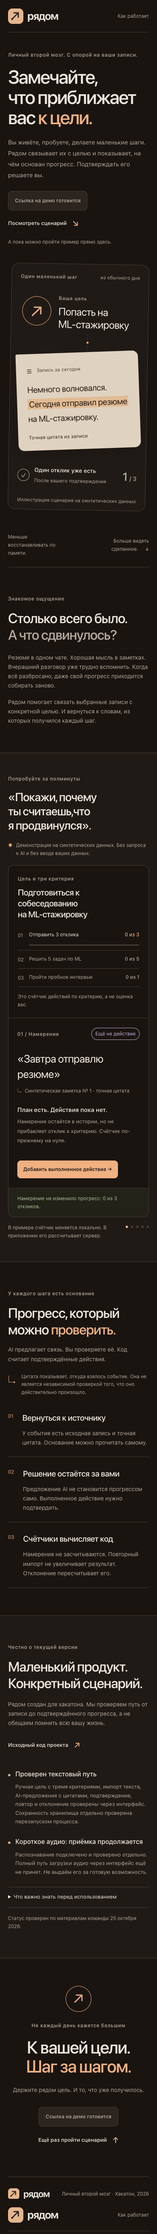
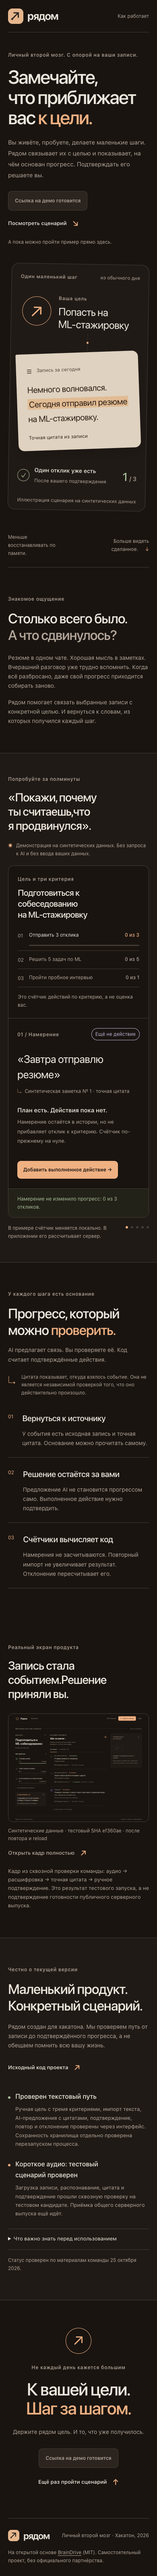
Reflect verified audio flow and show authentic product screen

diff --git a/landing/index.html b/landing/index.html
@@ -18,7 +18,10 @@
       property="og:description"
       content="Запись. Точная цитата. Ваше подтверждение. Замечайте, что приближает вас к цели."
     />
-    <meta property="og:image" content="http://77.239.111.64/assets/og-image.png" />
+    <meta
+      property="og:image"
+      content="http://77.239.111.64/assets/og-image.png"
+    />
     <meta property="og:image:width" content="1200" />
     <meta property="og:image:height" content="630" />
     <meta
@@ -321,6 +324,56 @@
         </ol>
       </section>
 
+      <section
+        class="product-section wrap section"
+        aria-labelledby="product-title"
+      >
+        <div class="section-heading">
+          <div>
+            <p class="eyebrow">Реальный экран продукта</p>
+            <h2 id="product-title">
+              Запись стала событием.<br />Решение приняли вы.
+            </h2>
+          </div>
+          <p class="section-aside">
+            Тестовый кандидат · 25 октября 2026<br />Настоящие распознавание и
+            модель
+          </p>
+        </div>
+        <figure class="product-figure">
+          <a
+            href="assets/product-audio-verified.png"
+            target="_blank"
+            rel="noopener noreferrer"
+            aria-label="Открыть полный кадр проверенного тестового кандидата"
+            ><img
+              src="assets/product-audio-verified.png"
+              width="1440"
+              height="1100"
+              loading="lazy"
+              decoding="async"
+              alt="Реальный интерфейс Рядом после аудиопроверки: резюме подтверждено, критерий 1 из 1; интервью ещё на проверке, намерение повторить темы не засчитано."
+          /></a>
+          <figcaption>
+            <span
+              >Синтетические данные · тестовый SHA ef360ae · после повтора и
+              reload</span
+            ><a
+              class="text-link"
+              href="assets/product-audio-verified.png"
+              target="_blank"
+              rel="noopener noreferrer"
+              >Открыть кадр полностью <span aria-hidden="true">↗</span></a
+            >
+          </figcaption>
+        </figure>
+        <p class="product-caption">
+          Кадр из сквозной проверки команды: аудио → расшифровка → точная цитата
+          → ручное подтверждение. Это результат тестового запуска, а не
+          подтверждение готовности публичного серверного выпуска.
+        </p>
+      </section>
+
       <section id="mvp" class="mvp-section section" aria-labelledby="mvp-title">
         <div class="wrap mvp-grid">
           <div>
@@ -354,11 +407,11 @@
             <div class="release-row">
               <span class="status-dot apricot" aria-hidden="true"></span>
               <div>
-                <h3>Короткое аудио: приёмка продолжается</h3>
+                <h3>Короткое аудио: тестовый сценарий проверен</h3>
                 <p>
-                  Распознавание подключено и проверено отдельно. Полный путь
-                  загрузки аудио через интерфейс ещё не принят. Не выдаём его за
-                  готовую возможность.
+                  Загрузка записи, распознавание, цитата и подтверждение прошли
+                  сквозную проверку на тестовом кандидате. Приёмка общего
+                  серверного выпуска ещё идёт.
                 </p>
               </div>
             </div>
@@ -376,8 +429,9 @@
                 </p>
                 <p>
                   Постоянного прослушивания, автоматического чтения почты и
-                  мессенджеров нет. Публичные кадры работающего продукта пока не
-                  переданы; пример выше является иллюстрацией.
+                  мессенджеров нет. Интерактивный пример выше является
+                  иллюстрацией; кадр продукта снят с настоящего тестового
+                  кандидата на синтетических данных.
                 </p>
               </div>
             </details>

diff --git a/landing/styles.css b/landing/styles.css
@@ -809,6 +809,43 @@ summary:hover {
   text-decoration: underline;
   text-underline-offset: 3px;
 }
+.product-section {
+  padding-top: 0;
+}
+.product-figure {
+  margin-top: 32px;
+}
+.product-figure > a {
+  display: block;
+  border: 1px solid var(--line);
+  border-radius: 12px;
+  overflow: hidden;
+}
+.product-figure img {
+  width: 100%;
+  height: auto;
+}
+.product-figure figcaption {
+  display: flex;
+  justify-content: space-between;
+  align-items: center;
+  gap: 16px;
+  padding-top: 12px;
+  text-align: left;
+}
+.product-caption {
+  color: var(--muted);
+  font-size: 13px;
+  max-width: 78ch;
+  margin-top: 12px;
+}
+@media (max-width: 760px) {
+  .product-figure figcaption {
+    align-items: flex-start;
+    flex-direction: column;
+    gap: 4px;
+  }
+}
 @media (min-width: 1600px) {
   .hero {
     padding-top: 100px;

diff --git a/docs/landing/FACTS.md b/docs/landing/FACTS.md
@@ -11,20 +11,22 @@
 | «Вы решаете, что засчитать в прогресс» | [Расчёт прогресса](../../app/builds/typescript/features/goals/progress.ts), [приёмка A](../release/ACCEPTANCE.md): считаются подтверждённые выполненные действия. Намерения не увеличивают счётчик; повтор того же источника не даёт вторую единицу, отклонение пересчитывает результат. Похожий смысл разных текстов не равен гарантированной дедупликации. |
 | «Видно, что уже сделано по каждому критерию» | Серверные числа по критериям, без общего процента жизненного успеха. Следующий шаг в v1 — правило по первому незавершённому критерию, не модельный коучинг: [progress.ts](../../app/builds/typescript/features/goals/progress.ts). |
 
-## Аудио: реализация и приёмка различаются
+## Аудио: обновление по приёмке B, 15:07 МСК
 
-В этом SHA уже есть настоящий [STT-адаптер](../../app/builds/typescript/features/context/stt.ts) и отдельный [faster-whisper сервис](../../services/stt/README.md). Сохранены [реальная расшифровка синтетического аудио](../demo/sources/demo-audio-transcript.json) и [метрики одного запуска](../demo/sources/audio-metrics.json): запись 50,63 с обработана за 15,64 с. Это единичный замер, не SLA; в расшифровке есть ошибки. Таймкоды допустимы только из фактических segments. MVP показывает расшифровку, аудиоплеер не заявлен.
+Финальная сверка материалов владельца обнаружила более новый handoff B: коммит `7427469091fa1d562661cf245cac414050ff42e2` и последующее уточнение `f4f92b3f36f11cb21aa6cda9b20252342c2010f0`. Исходный отчёт команды `docs/evaluation/common-candidate-artifacts/results.json` проверен в общем checkout без его изменения. Отфильтрованный итог и происхождение кадра сохранены в [audio-source-summary.json](evidence/audio-source-summary.json).
 
-Полный путь «аудио через UI → STT → модель → цитата → подтверждение → прогресс» в [журнале приёмки](../release/ACCEPTANCE.md) остаётся **NOT_RUN**. Наличие [browser runner](../evaluation/browser-audio-README.md) не означает PASS. Старые README и передачи команды со словами «STT ещё не реализован» отстают от исходников; их нельзя использовать как текущее описание реализации. Безопасная публичная формулировка: **«Короткое аудио — в проверке»**. Не писать «аудио MVP принято» или «полный MVP готов» до приёмки одного общего SHA.
+На **ef360ae** 25 октября **14:38:07–14:38:59 МСК** выполнены **7 PASS, 0 FAIL**: обычные signup/logout/login, цель с нулевым прогрессом, синтетическое аудио через UI → настоящий STT → настоящая модель → точные цитаты, ручное подтверждение → серверный прогресс, повтор audio bytes без роста и reload. Это Windows браузер/gateway и серверный STT через private loopback. Restart, backup/restore, mobile и production packaging этим прогоном не проверены. Точность распознавания не гарантирована: в транскрипте есть ошибки слов.
 
-## Изображения, видео и демонстрация
+Публичная формулировка: **«Короткое аудио: тестовый сценарий проверен. Приёмка общего серверного выпуска ещё идёт»**. Не называть общий публичный MVP принятым по одному этому прогону. Первая версия лендинга корректно опиралась на ранний журнал A; перед завершением текст обновлён по новому прямому доказательству B. История не подменяет актуальный статус.
 
-- В проверенном срезе нет коммитнутого скриншота рабочего экрана «Рядом». [BrainDrive PNG](../../app/docs/images/braindrive-screenshot.png) показывает upstream-продукт и не подходит как скриншот нашего интерфейса. В [handoff C](../handoffs/agent-c.md) локальные скриншоты упомянуты, но не входят в Git. Для лендинга нужен новый проверенный снимок синтетического экрана; иллюстрацию интерфейса подписывать как иллюстрацию.
-- [Development preview](../design/GOALS_BRIEF.md) — синтетический макет без вызова модели, недоступный в production. Он годится для изображения композиции с явной подписью «Демонстрационные данные», но не доказывает live-проход.
-- [Четыре HTML-слайда](../demo/defense/README.md) подготовлены. [Резервное видео и две человеческие репетиции](../demo/REHEARSAL.md) отмечены **NOT_RUN**; файла готового продуктового видео в срезе нет. Не добавлять кнопку воспроизведения без реального файла.
+## Реальный кадр и материалы
+
+Из того же проверенного отчёта взят `03-duplicate-and-reload.png`. Он визуально просмотрен: реальный интерфейс «Рядом», синтетическая цель, подтверждённое резюме 1/1, второе действие на проверке и намерение без роста. Нет URL-бара, токенов, приватных контактов или пользовательских записей. В лендинг файл скопирован **без редактирования пикселей** как `assets/product-audio-verified.png`; подпись прямо называет тестовый SHA, отдельную синтетическую цель и границы результата. Это не изображение upstream BrainDrive и не development preview.
+
+Общий `PRODUCT.md` и дизайн-принципы сохранены. Первый интерактивный пример остаётся отдельной детерминированной иллюстрацией, не выдан за живой AI. Подтверждённый публичный вход в MVP не передан; владелец отдельно разрешил оставить «Ссылка на демо готовится». Видео не встраивается: публичный разрешённый файл для лендинга не передан, фиктивной кнопки play нет.
 
 ## Открытая основа и честные ограничения
 
 Корректная атрибуция: **«Создано на основе BrainDrive — открытого проекта под лицензией MIT»**. Основание: [app/LICENSE](../../app/LICENSE), copyright © 2026 BrainDrive.ai. При распространении исходников сохранять copyright и текст лицензии; не приписывать upstream-разработку команде «Рядом».
 
-Публично уместна отметка **«Хакатонный прототип»**. [Приёмка выпуска](../release/ACCEPTANCE.md) не объявляет полный MVP принятым: аудио UI, полный production restart и финальный общий кандидат остаются открытыми. Текстовый live-сценарий принят локально; source-build/health/auth отдельно проверены на `f93536d`, что не подтверждает автоматически весь текущий SHA. Нет оснований обещать автономную работу, гарантированное достижение цели, интеграции с почтой/календарём/мессенджерами, фоновую запись или полностью локальную обработку: текстовое извлечение использует настроенную внешнюю модель. На лендинге не публиковать адреса сервисов, секреты, приватные ссылки и реальные пользовательские записи.
+Публично уместна отметка **«Хакатонный прототип»**. [Приёмка выпуска](../release/ACCEPTANCE.md) не объявляет полный MVP принятым: финальный серверный кандидат остаётся открытым; отдельный audio UI gate B уже прошёл с указанными выше границами. Текстовый live-сценарий принят локально; source-build/health/auth отдельно проверены на `f93536d`, что не подтверждает автоматически весь текущий SHA. Нет оснований обещать автономную работу, гарантированное достижение цели, интеграции с почтой/календарём/мессенджерами, фоновую запись или полностью локальную обработку: текстовое извлечение использует настроенную внешнюю модель. На лендинге не публиковать адреса сервисов, секреты, приватные ссылки и реальные пользовательские записи.

diff --git a/docs/landing/DEPLOYMENT.md b/docs/landing/DEPLOYMENT.md
@@ -40,5 +40,5 @@ PLAYWRIGHT_MODULE=./app/builds/typescript/client_web/node_modules/playwright/ind
 ## Оставшиеся входные данные от интегратора
 
 - Подтверждённый публичный URL обычного входа в MVP, без токенов и фиктивных preview. До него обе позиции CTA остаются состоянием ожидания.
-- Итог приёмки единого audio UI/STT/evidence/confirm кандидата и его SHA.
-- Реальные разрешённые screenshot/video синтетического прохода, без credentials. До них продуктовый кадр не подменять иллюстрацией, видео-кнопку не добавлять.
+- Приёмка общего серверного релиза. Audio UI B на ef360ae уже PASS, его проверенный кадр включён.
+- Разрешённое продуктовое видео, если команда хочет его добавить. Проверенный screenshot уже включён; без видеофайла кнопку play не добавлять.
